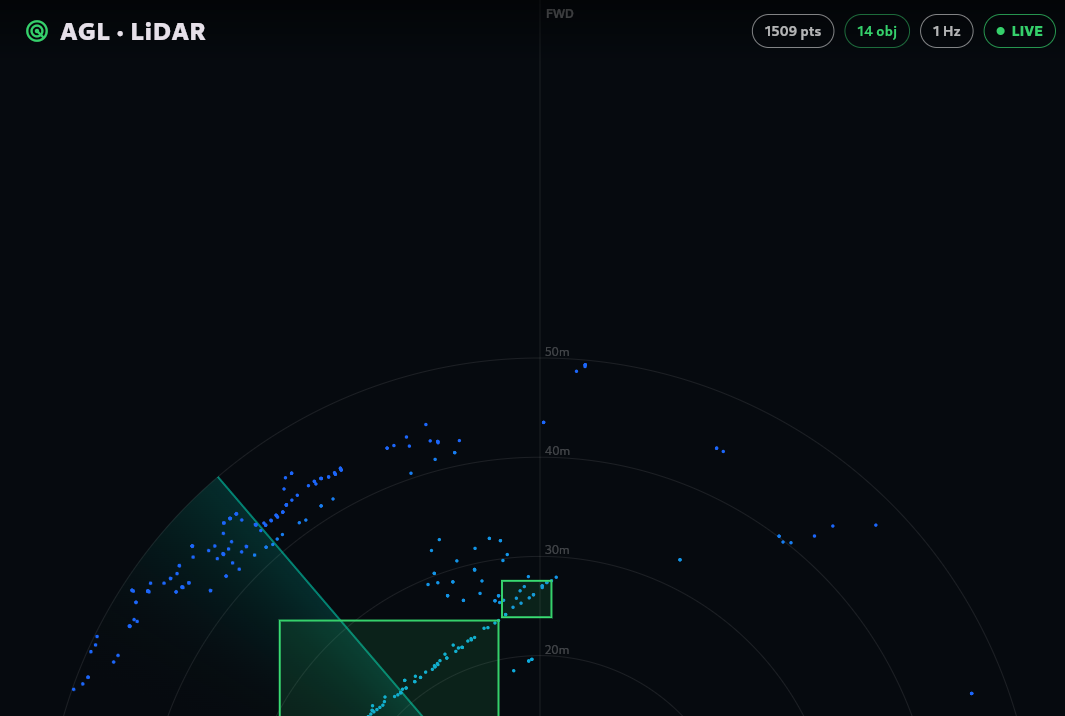
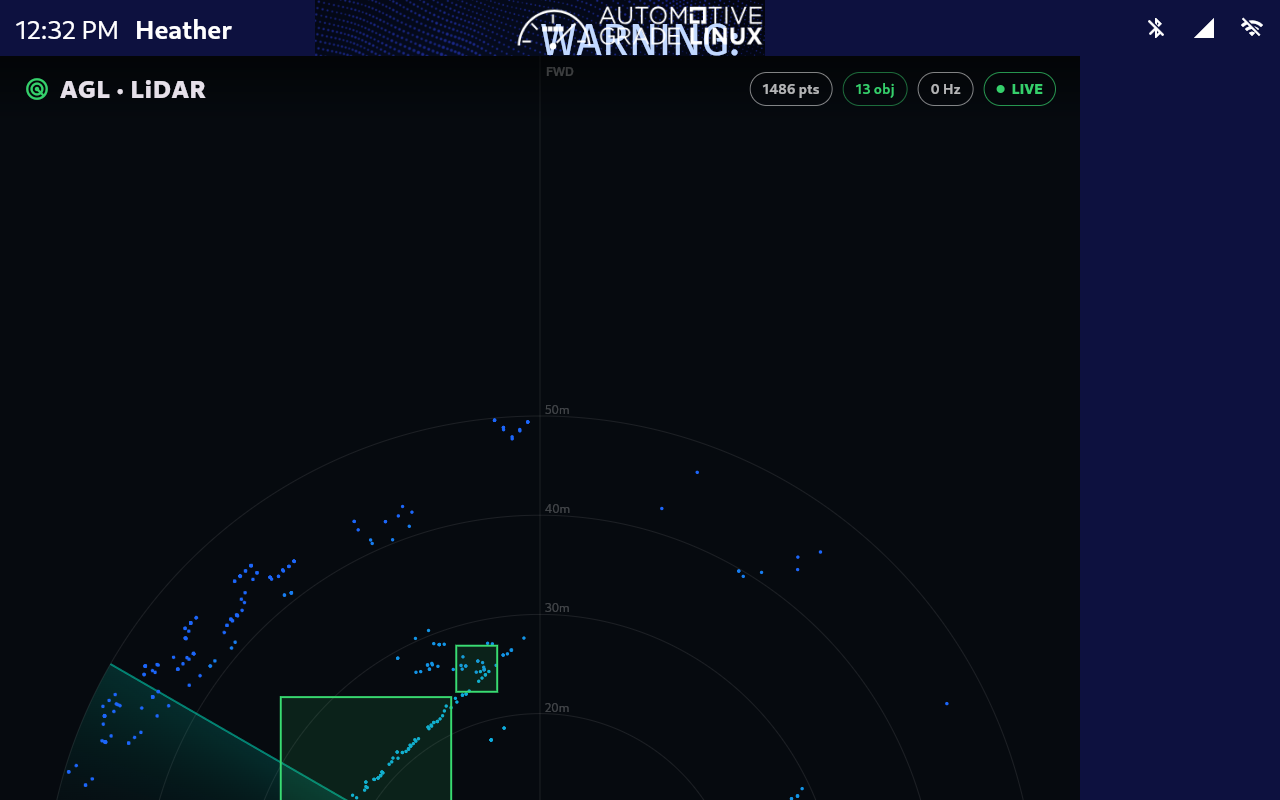
Week 14: use full-screen capture of the live dashboard
Swap the cropped app-only shot for the complete AGL screen, and align the
figure alt/caption with the frame (1486 points, 13 objects).

diff --git a/week14.html b/week14.html
@@ -45,8 +45,8 @@
 <p>This week is that join, and nothing more glamorous: teach the HMI to subscribe to the detections and draw them. It is a small change in lines of code and a big one in what the demo means, because it is the first time the perception result appears where a driver would actually see it.</p>
 
 <figure class="shot">
-  <img src="week14-hmi-boxes.png" alt="The AGL LiDAR dashboard running live. A dark top-down radar view shows blue LiDAR points spread across concentric range rings labelled 20m, 30m, 40m and 50m, with a rotating sensor sweep wedge. Two green rectangles outline detected object clusters. The top bar reads AGL LiDAR on the left and shows chips for 1509 points, 14 objects, 1 Hz, and a green LIVE indicator on the right." style="max-width:100%;height:auto;border-radius:8px;">
-  <figcaption>The AGL Flutter dashboard, live. Blue dots are the raw CARLA LiDAR cloud; the green rectangles are the detector's boxes, each one a cluster the perception node found. The chips along the top read the running point count, the object count (14 here), the update rate, and a LIVE link indicator. This is the emulated AGL screen, reading detections streamed from the server.</figcaption>
+  <img src="week14-hmi-boxes.png" alt="The full AGL screen running the LiDAR dashboard live. Below the AGL system status bar, a dark top-down radar view shows blue LiDAR points spread across concentric range rings labelled 20m, 30m, 40m and 50m, with a sensor sweep wedge. Two green rectangles outline detected object clusters. The dashboard's own top bar reads AGL LiDAR on the left and shows chips for 1486 points, 13 objects, 1 Hz, and a green LIVE indicator on the right." style="max-width:100%;height:auto;border-radius:8px;">
+  <figcaption>The full emulated AGL screen, live. Below the AGL status bar sits the LiDAR dashboard: blue dots are the raw CARLA LiDAR cloud, and the green rectangles are the detector's boxes, each one a cluster the perception node found. The chips along the dashboard's top read the running point count, the object count (13 here), the update rate, and a LIVE link indicator &mdash; the detections are streamed from the server over a tunnelled rosbridge.</figcaption>
 </figure>
 
 <h2>2. What changed in the app</h2>
